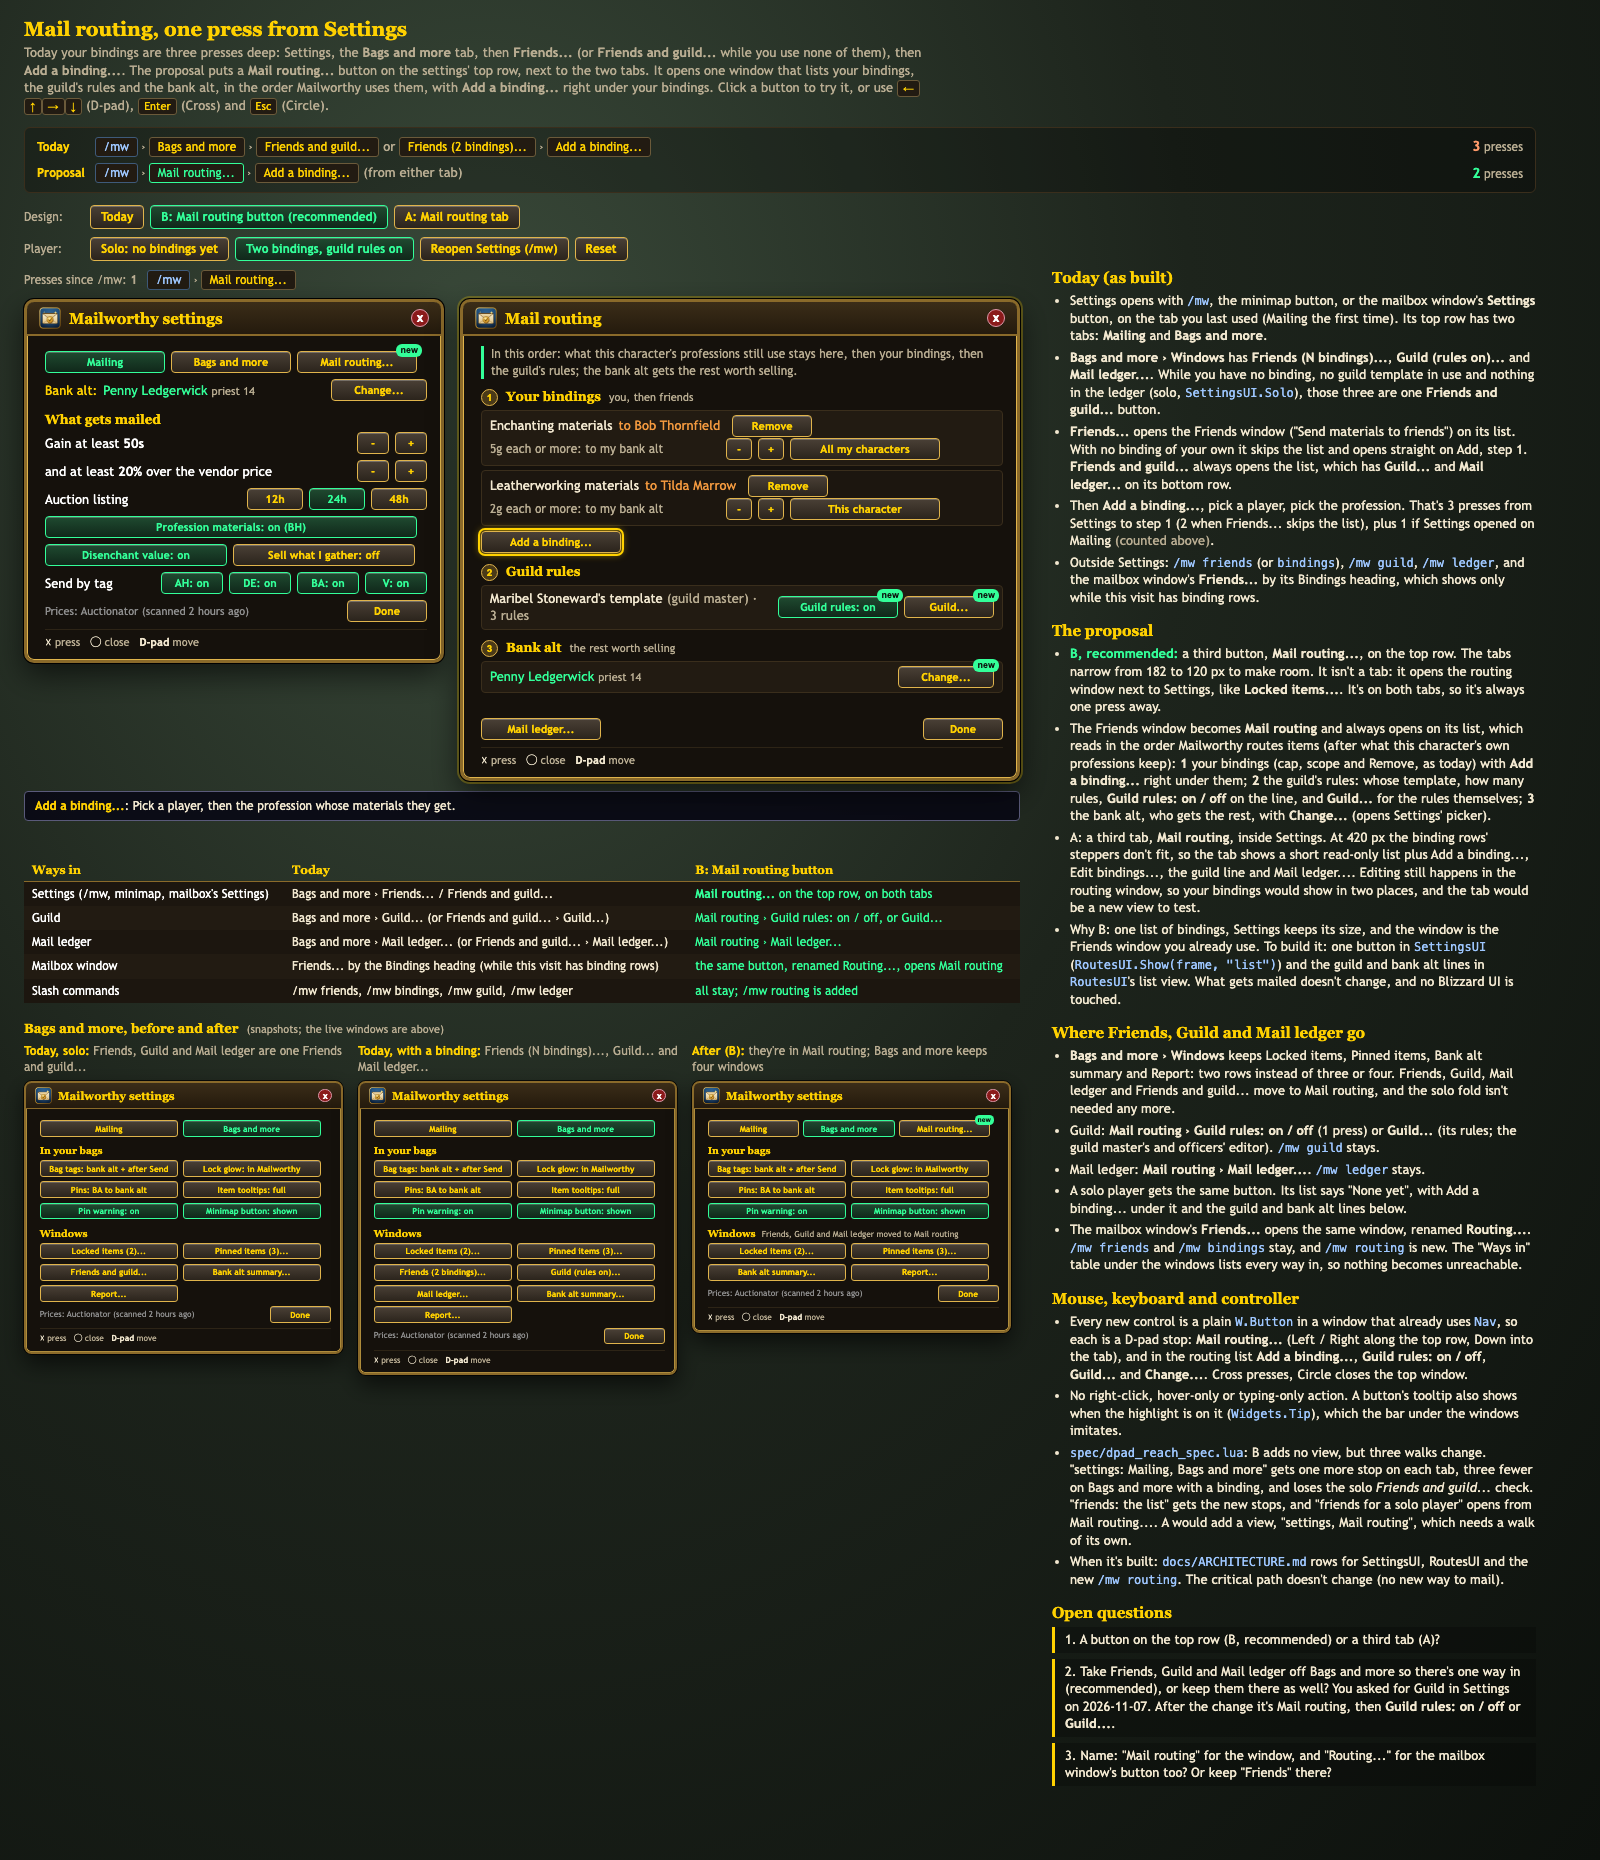
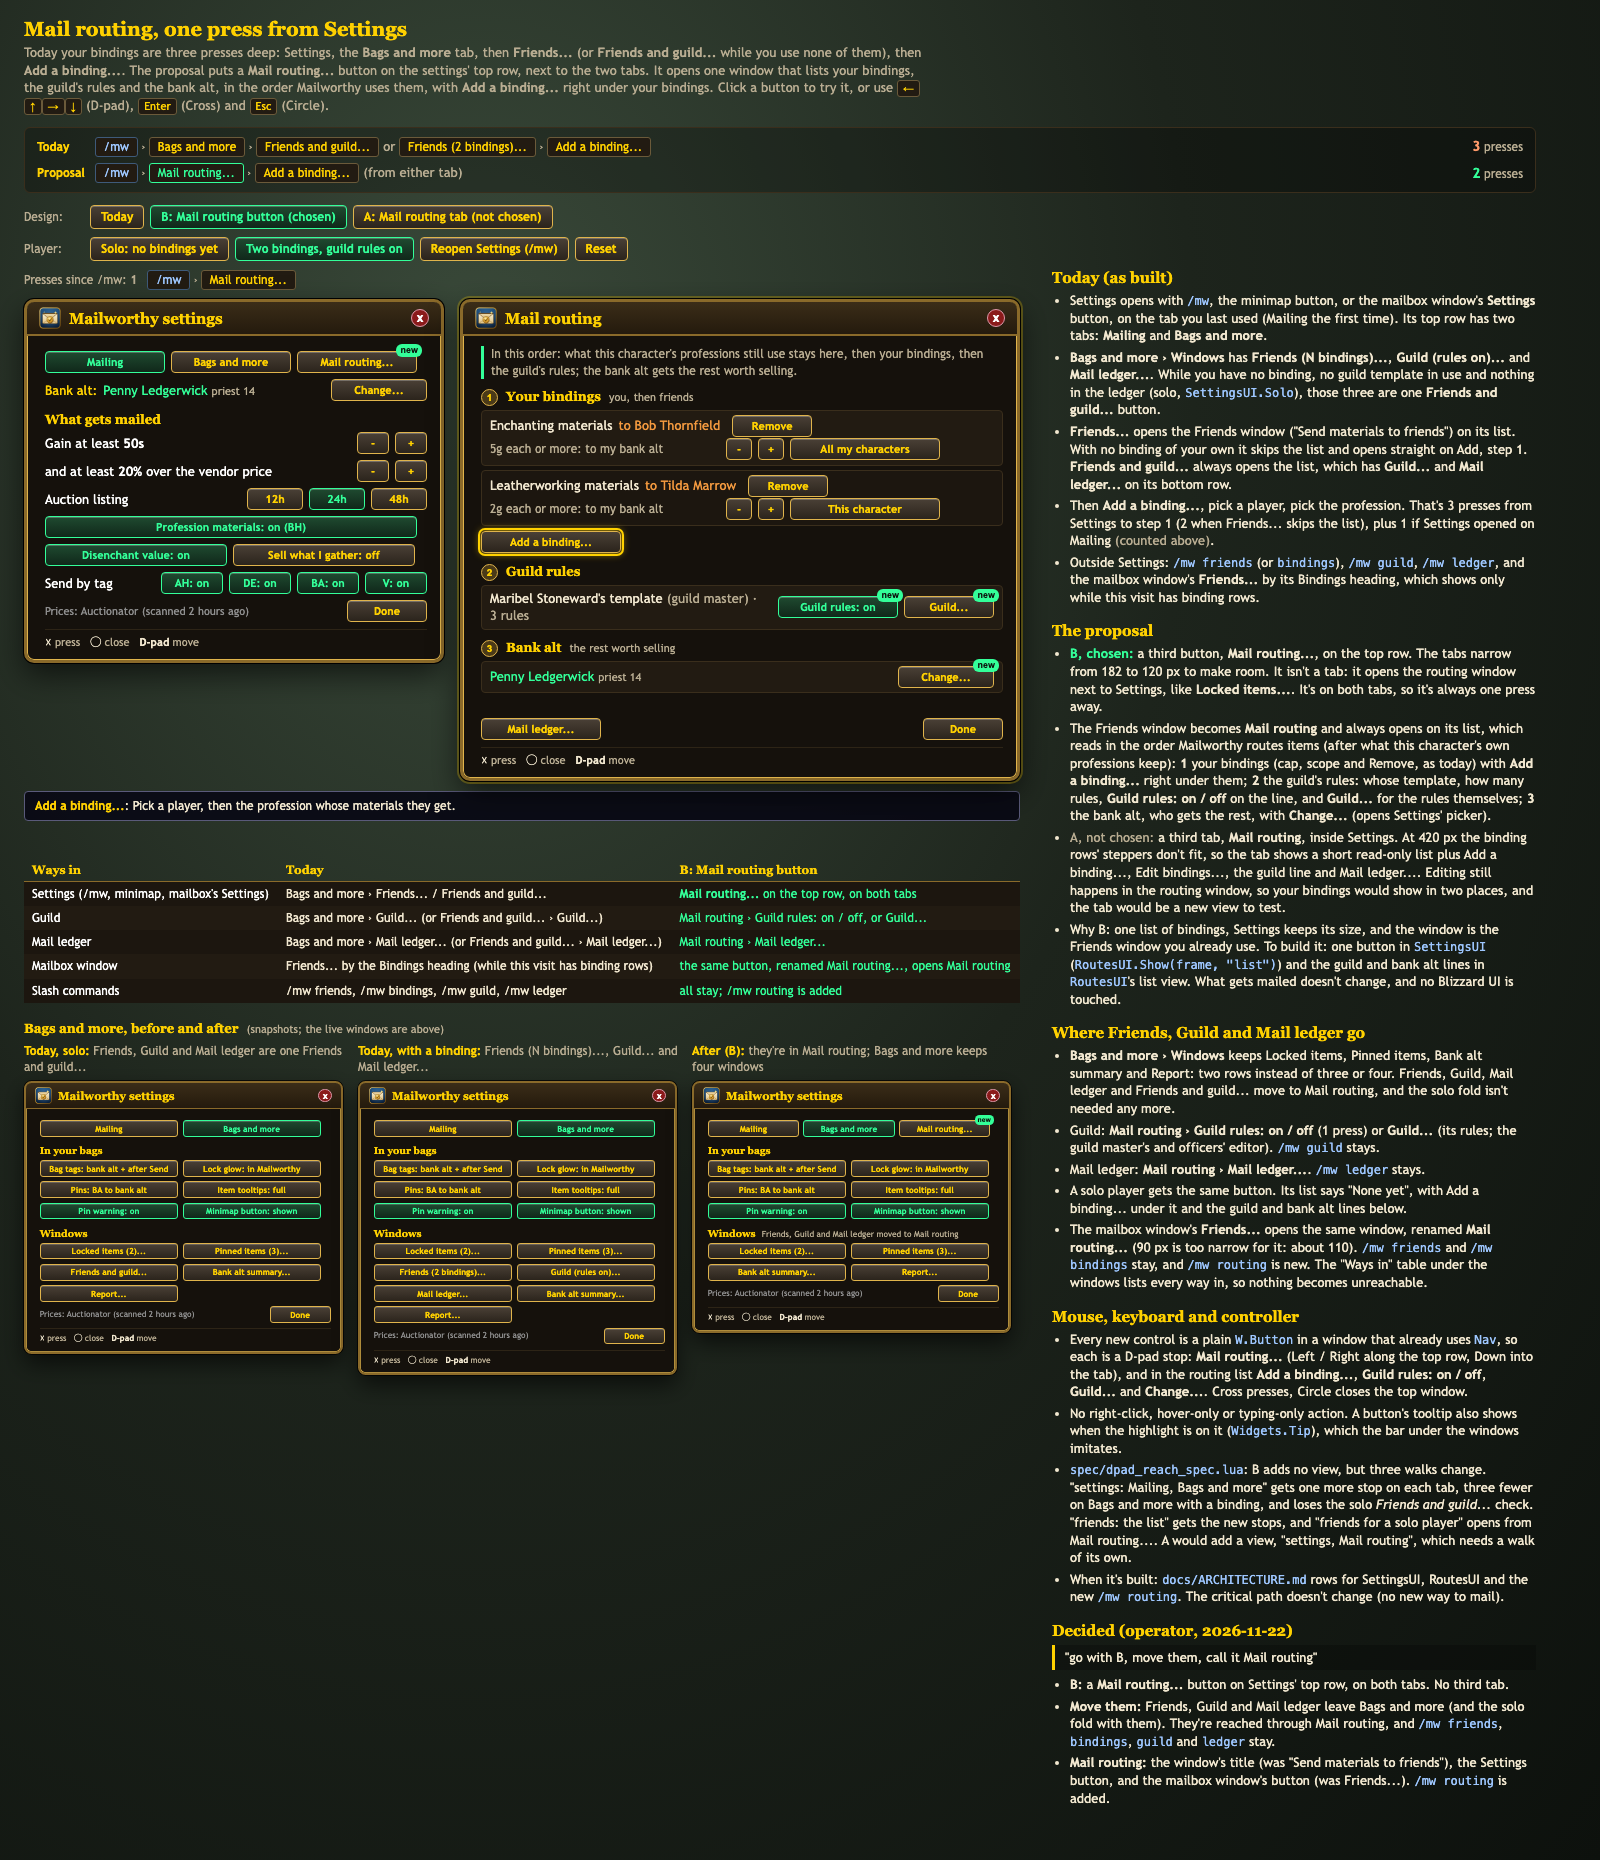
docs: Mail routing sheet records the operator's picks
Operator (2026-11-22): "go with B, move them, call it Mail routing". B (a
Mail routing... button on Settings' top row) is marked chosen and A not
chosen; Friends / Guild / Mail ledger leave Bags and more; the window and
the mailbox window's button are called Mail routing. The open questions
become a "Decided" section; HANDOFF's row says decided, not built yet.

Docs only: no Lua changes.

diff --git a/media/settings-routing-prototype.html b/media/settings-routing-prototype.html
@@ -10,7 +10,8 @@
      button on the settings."
      Shows today's path (SettingsUI.lua: tabs Mailing / Bags and more, the solo fold into
      "Friends and guild...", RoutesUI.lua's list), the proposal (B: a Mail routing... button on the
-     top row, recommended; A: a third tab), and where Friends / Guild / Mail ledger go.
+     top row; A: a third tab), and where Friends / Guild / Mail ledger go.
+     Decided by the operator (2026-11-22): "go with B, move them, call it Mail routing".
      Interactive: click the buttons, or use the arrow keys (D-pad), Enter (Cross) and Esc (Circle).
      Names are made up (same cast as bindings-prototype.html). Not built: no Lua changes. -->
 <style>
@@ -164,8 +165,8 @@
 
   <div class="scen"><span class="l">Design:</span>
     <span class="btn grey" data-mode="today">Today</span>
-    <span class="btn grey" data-mode="button">B: Mail routing button (recommended)</span>
-    <span class="btn grey" data-mode="tab">A: Mail routing tab</span></div>
+    <span class="btn grey" data-mode="button">B: Mail routing button (chosen)</span>
+    <span class="btn grey" data-mode="tab">A: Mail routing tab (not chosen)</span></div>
   <div class="scen"><span class="l">Player:</span>
     <span class="btn grey" data-who="solo">Solo: no bindings yet</span>
     <span class="btn grey" data-who="busy">Two bindings, guild rules on</span>
@@ -202,7 +203,7 @@
 
       <h2>The proposal</h2>
       <ul>
-        <li><span class="rec">B, recommended:</span> a third button, <b>Mail routing...</b>, on the top row. The tabs narrow from 182 to
+        <li><span class="rec">B, chosen:</span> a third button, <b>Mail routing...</b>, on the top row. The tabs narrow from 182 to
           120 px to make room. It isn't a tab: it opens the routing window next to Settings, like <b>Locked items...</b>. It's
           on both tabs, so it's always one press away.</li>
         <li>The Friends window becomes <b>Mail routing</b> and always opens on its list, which reads in the order Mailworthy routes items
@@ -210,7 +211,7 @@
           <b>Add a binding...</b> right under them; <b>2</b> the guild's rules: whose template, how many rules, <b>Guild rules: on / off</b>
           on the line, and <b>Guild...</b> for the rules themselves; <b>3</b> the bank alt, who gets the rest, with
           <b>Change...</b> (opens Settings' picker).</li>
-        <li>A: a third tab, <b>Mail routing</b>, inside Settings. At 420 px the binding rows' steppers don't fit, so the tab shows a short
+        <li><span class="dim">A, not chosen:</span> a third tab, <b>Mail routing</b>, inside Settings. At 420 px the binding rows' steppers don't fit, so the tab shows a short
           read-only list plus Add a binding..., Edit bindings..., the guild line and Mail ledger.... Editing still happens in the
           routing window, so your bindings would show in two places, and the tab would be a new view to test.</li>
         <li>Why B: one list of bindings, Settings keeps its size, and the window is the Friends window you already use.
@@ -225,7 +226,7 @@
         <li>Guild: <b>Mail routing › Guild rules: on / off</b> (1 press) or <b>Guild...</b> (its rules; the guild master's and officers' editor). <code>/mw guild</code> stays.</li>
         <li>Mail ledger: <b>Mail routing › Mail ledger...</b>. <code>/mw ledger</code> stays.</li>
         <li>A solo player gets the same button. Its list says "None yet", with Add a binding... under it and the guild and bank alt lines below.</li>
-        <li>The mailbox window's <b>Friends...</b> opens the same window, renamed <b>Routing...</b>. <code>/mw friends</code> and
+        <li>The mailbox window's <b>Friends...</b> opens the same window, renamed <b>Mail routing...</b> (90 px is too narrow for it: about 110). <code>/mw friends</code> and
           <code>/mw bindings</code> stay, and <code>/mw routing</code> is new. The "Ways in" table under the windows lists every way in, so nothing becomes unreachable.</li>
       </ul>
 
@@ -242,11 +243,15 @@
         <li>When it's built: <code>docs/ARCHITECTURE.md</code> rows for SettingsUI, RoutesUI and the new <code>/mw routing</code>. The critical path doesn't change (no new way to mail).</li>
       </ul>
 
-      <h2>Open questions</h2>
-      <div class="q">1. A button on the top row (B, recommended) or a third tab (A)?</div>
-      <div class="q">2. Take Friends, Guild and Mail ledger off Bags and more so there's one way in (recommended), or keep them there as well? You asked
-        for Guild in Settings on 2026-11-07. After the change it's Mail routing, then <b>Guild rules: on / off</b> or <b>Guild...</b>.</div>
-      <div class="q">3. Name: "Mail routing" for the window, and "Routing..." for the mailbox window's button too? Or keep "Friends" there?</div>
+      <h2>Decided (operator, 2026-11-22)</h2>
+      <div class="q">"go with B, move them, call it Mail routing"</div>
+      <ul>
+        <li><b>B:</b> a <b>Mail routing...</b> button on Settings' top row, on both tabs. No third tab.</li>
+        <li><b>Move them:</b> Friends, Guild and Mail ledger leave Bags and more (and the solo fold with them). They're reached through Mail routing,
+          and <code>/mw friends</code>, <code>bindings</code>, <code>guild</code> and <code>ledger</code> stay.</li>
+        <li><b>Mail routing:</b> the window's title (was "Send materials to friends"), the Settings button, and the mailbox window's button
+          (was Friends...). <code>/mw routing</code> is added.</li>
+      </ul>
     </div>
   </div>
 </div>
@@ -455,7 +460,7 @@
         p ? (A ? "the <b>Mail routing</b> tab (Edit bindings... opens the window)" : "<b>Mail routing...</b> on the top row, on both tabs") : null],
       ["Guild", "Bags and more › Guild... (or Friends and guild... › Guild...)", p ? "Mail routing › Guild rules: on / off, or Guild..." : null],
       ["Mail ledger", "Bags and more › Mail ledger... (or Friends and guild... › Mail ledger...)", p ? "Mail routing › Mail ledger..." : null],
-      ["Mailbox window", "Friends... by the Bindings heading (while this visit has binding rows)", p ? "the same button, renamed Routing..., opens Mail routing" : null],
+      ["Mailbox window", "Friends... by the Bindings heading (while this visit has binding rows)", p ? "the same button, renamed Mail routing..., opens Mail routing" : null],
       ["Slash commands", "/mw friends, /mw bindings, /mw guild, /mw ledger", p ? "all stay; /mw routing is added" : null]
     ];
     return '<tr><th>Ways in</th><th>Today</th><th>' + (p ? MODE_LABEL[S.mode] : "After the change") + '</th></tr>'

diff --git a/docs/HANDOFF.md b/docs/HANDOFF.md
@@ -41,7 +41,7 @@ must never break the game.
 | **Quality-of-life pass** (built: A the send path, B the window and controller, C controller names, E the trip line; G researched; D the locked items window, F the own-crafter offer; operator's picks 2026-11-09: controller reach to Send (chosen: D-pad Up from the top row jumps to Send), Stop and a receipt, postage check, Choose bank alt on the To line, two-way pagers, locked items window, settings redraw the list, own-crafter binding offer, mailbox-trip line, button names by controller: Xbox and Steam Deck) | [media/qol-prototype.html](../media/qol-prototype.html) -> [.png](../media/qol-prototype.png) |
 | **Enchanting binding: the Gear switch and the cap ladder** (built 2026-11-11 with the operator's picks, panel 9; from a CurseForge comment) | [media/disenchant-binding-prototype.html](../media/disenchant-binding-prototype.html) -> [.png](../media/disenchant-binding-prototype.png) |
 | **Here / Alt on a bank-here row** (built 2026-11-21: the row's pick button cycles Here -> Alt -> Friend / Guild; operator: "use the same ui interaction that the other toggle does"; visit-only, like every pick) | [media/bank-here-toggle-prototype.html](../media/bank-here-toggle-prototype.html) |
-| **Mail routing from Settings** (proposed 2026-11-22, not built; operator: "there should be a top level Mail routing button on the settings"): today's path (Bags and more > Friends... / Friends and guild... > Add a binding...), B a **Mail routing...** button on Settings' top row (recommended) or A a third tab, the Friends window as "Mail routing" (bindings, guild rules, bank alt), where Friends / Guild / Mail ledger go, D-pad reach; 3 open questions | [media/settings-routing-prototype.html](../media/settings-routing-prototype.html) -> [.png](../media/settings-routing-prototype.png) |
+| **Mail routing from Settings** (decided 2026-11-22, not built yet; operator: "there should be a top level Mail routing button on the settings", then "go with B, move them, call it Mail routing"): a **Mail routing...** button on Settings' top row (B; not A, a third tab) opens the Friends window retitled "Mail routing" on its list (bindings + Add a binding..., guild rules on / off + Guild..., bank alt + Change...); Friends / Guild / Mail ledger leave Bags and more (no solo fold); the mailbox window's Friends... becomes Mail routing...; `/mw routing` added; D-pad reach | [media/settings-routing-prototype.html](../media/settings-routing-prototype.html) -> [.png](../media/settings-routing-prototype.png) |
 | **UX and architecture review** (2026-11-15: tech debt, simplification proposals U1-U9 / A1-A10, what the branch built) | [docs/UX-ARCHITECTURE-REVIEW.md](UX-ARCHITECTURE-REVIEW.md); sheet [media/simplify-prototype.html](../media/simplify-prototype.html) -> [.png](../media/simplify-prototype.png) |
 | **CurseForge gallery** (5 images of the shipped UI, 2026-11-07; keep them in step when a window changes) | [media/gallery/](../media/gallery/) (`*.html` -> `*.png`, 1600x900) |
 | CurseForge description (paste into the project page) | [media/curseforge-description.html](../media/curseforge-description.html) |
